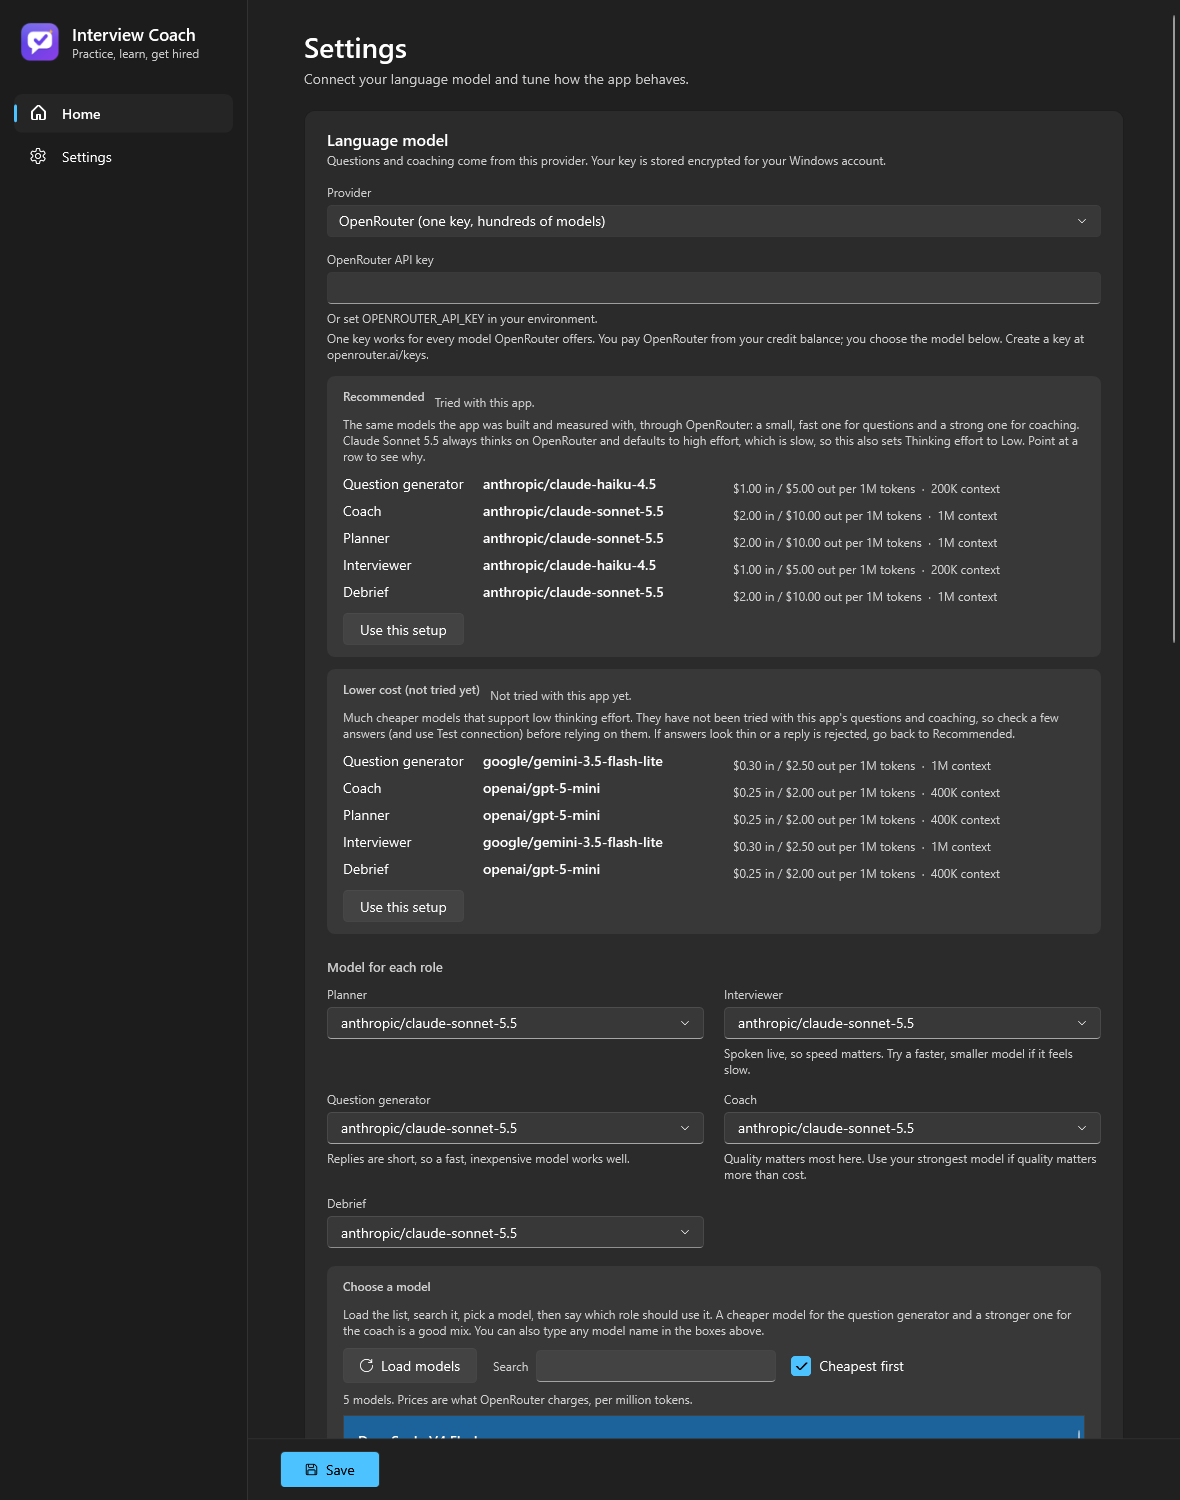
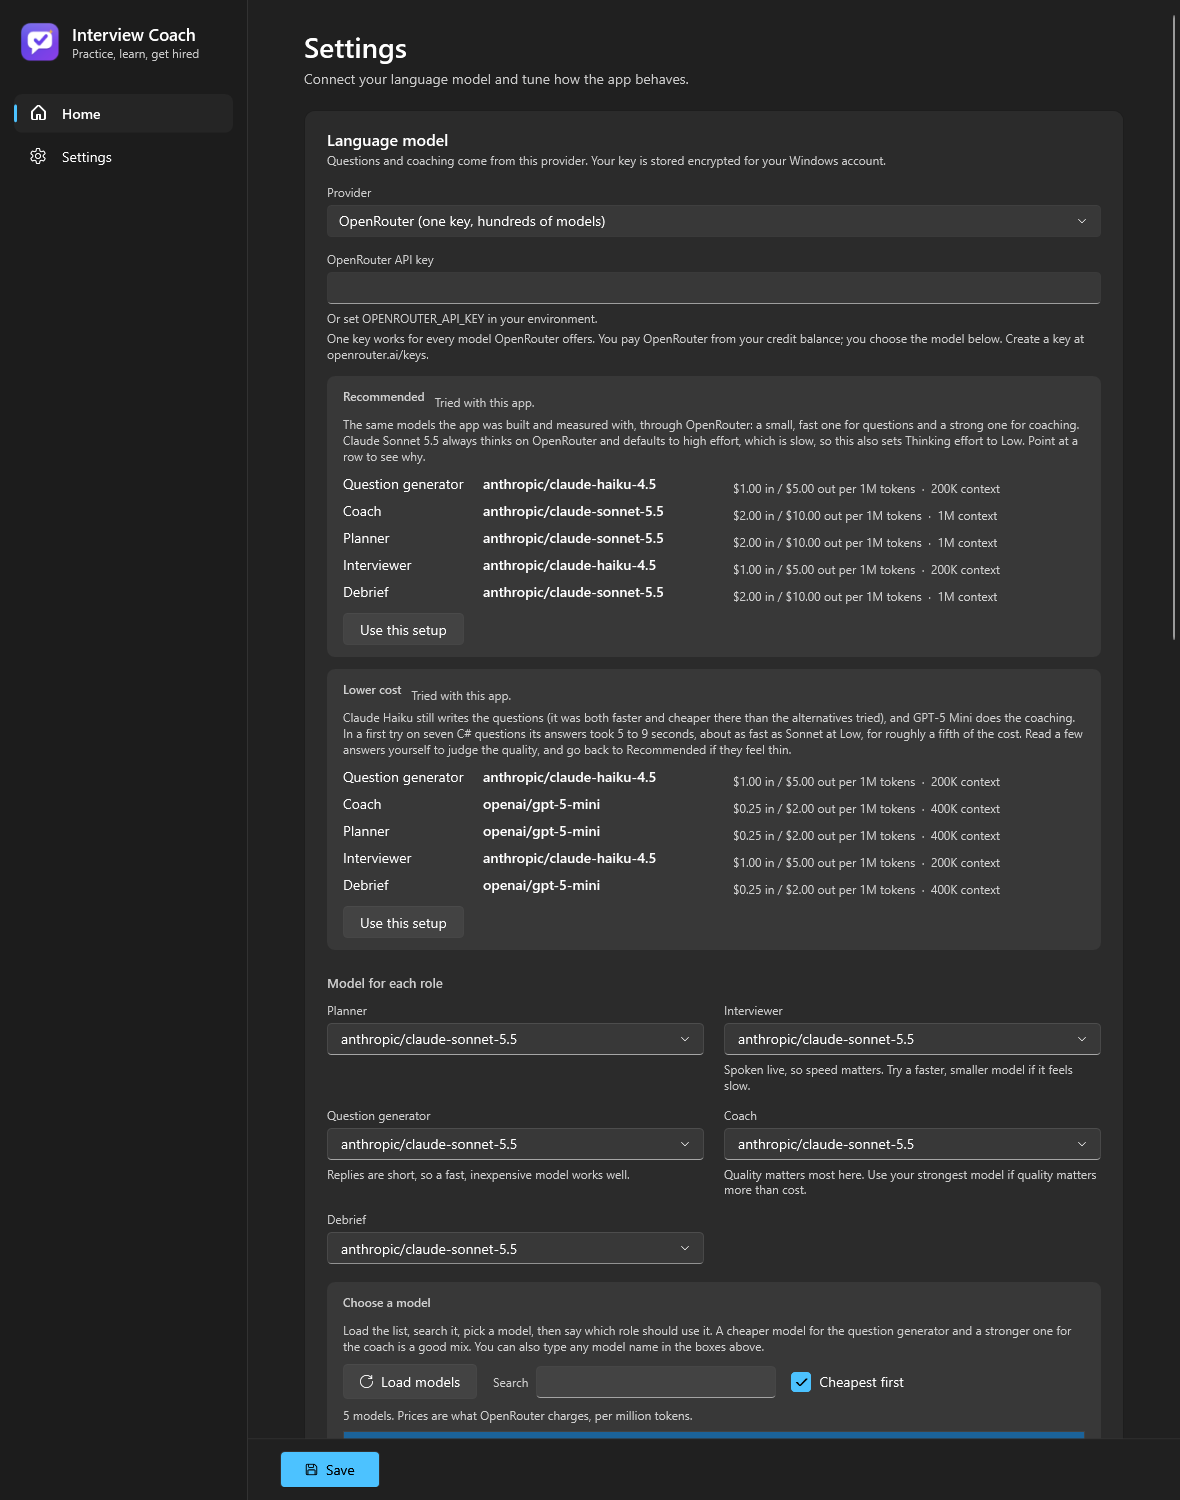
app: lower-cost setup keeps Haiku for questions
The first lower-cost setup used Gemini 3.5 Flash Lite for questions, chosen only from OpenRouter's price list. The real log showed it was slower and dearer than Haiku there, so it now uses Haiku for the question generator and interviewer and GPT-5 Mini for the coach, planner and debrief.

GPT-5 Mini was tried on seven C# questions: 5.4 to 8.5 seconds per answer (Sonnet at Low: 5.7 to 8.2), 102 to 117 words against a 60 to 150 target, three follow-ups each, for about a fifth of Sonnet's cost per answer (output tokens 724 on average at 2 dollars per million, against about 690 at 10). The setup is no longer labelled untried; the card says what was measured and tells the user to read answers to judge quality. The OpenRouter suggestion list swaps Gemini for GPT-5 Mini. Screenshots regenerated.

diff --git a/src/InterviewCoach.Core/Models/ModelRecommendations.cs b/src/InterviewCoach.Core/Models/ModelRecommendations.cs
@@ -39,10 +39,13 @@ public static class ModelRecommendations
         "The same models the app was built and measured with, through OpenRouter: a small, fast one for questions and a strong one for coaching. Claude Sonnet 5.5 always thinks on OpenRouter and defaults to high effort, which is slow, so this also sets Thinking effort to Low. Point at a row to see why.",
         tested: true, strong: "anthropic/claude-sonnet-5.5", fast: "anthropic/claude-haiku-4.5");
 
+    // Tried on 2 October 2026 (debug log, 7 C# questions): GPT-5 Mini coached in 5 to 9 seconds, about as fast as Sonnet at Low,
+    // for roughly a fifth of the cost. Gemini 3.5 Flash Lite as the question writer was NOT kept: it spent about 500 of 550 output
+    // tokens thinking and took 2.3 to 3.0 seconds against Haiku's 1.0 to 1.5, so it cost more per question as well.
     private static readonly RecommendedSetup OpenRouterCheaper = Setup(
-        "Lower cost (not tried yet)",
-        "Much cheaper models that support low thinking effort. They have not been tried with this app's questions and coaching, so check a few answers (and use Test connection) before relying on them. If answers look thin or a reply is rejected, go back to Recommended.",
-        tested: false, strong: "openai/gpt-5-mini", fast: "google/gemini-3.5-flash-lite");
+        "Lower cost",
+        "Claude Haiku still writes the questions (it was both faster and cheaper there than the alternatives tried), and GPT-5 Mini does the coaching. In a first try on seven C# questions its answers took 5 to 9 seconds, about as fast as Sonnet at Low, for roughly a fifth of the cost. Read a few answers yourself to judge the quality, and go back to Recommended if they feel thin.",
+        tested: true, strong: "openai/gpt-5-mini", fast: "anthropic/claude-haiku-4.5");
 
     /// <summary>Setups worth offering for a provider. Empty when model names cannot be known in advance (OpenAI-compatible servers).</summary>
     public static IReadOnlyList<RecommendedSetup> For(LlmProvider provider) => provider switch

diff --git a/tests/InterviewCoach.Core.Tests/ModelRecommendationsTests.cs b/tests/InterviewCoach.Core.Tests/ModelRecommendationsTests.cs
@@ -39,10 +39,22 @@ public class ModelRecommendationsTests
     [Fact]
     public void Anything_not_tried_with_the_app_is_labelled_as_such()
     {
-        var cheaper = ModelRecommendations.For(LlmProvider.OpenRouter).Where(s => !s.Tested).ToList();
+        foreach (var setup in ModelRecommendations.For(LlmProvider.OpenRouter).Where(s => !s.Tested))
+            Assert.Contains("not tried", setup.Title + setup.Summary, StringComparison.OrdinalIgnoreCase);
+    }
 
-        Assert.NotEmpty(cheaper);
-        Assert.All(cheaper, s => Assert.Contains("not tried", s.Title + s.Summary, StringComparison.OrdinalIgnoreCase));
+    [Fact]
+    public void The_lower_cost_setup_keeps_Haiku_for_questions_and_uses_GPT_5_Mini_for_coaching()
+    {
+        // From the debug log: Gemini 3.5 Flash Lite as question writer spent about 500 of 550 output tokens thinking and
+        // took 2.3 to 3.0 s against Haiku's 1.0 to 1.5 s, so it was slower and dearer there. GPT-5 Mini coached well.
+        var cheaper = ModelRecommendations.For(LlmProvider.OpenRouter)[1];
+        string Of(LlmRole r) => cheaper.Models.Single(m => m.Role == r).ModelId;
+
+        Assert.Equal("anthropic/claude-haiku-4.5", Of(LlmRole.QuestionGenerator));
+        Assert.Equal("anthropic/claude-haiku-4.5", Of(LlmRole.Interviewer));
+        Assert.Equal("openai/gpt-5-mini", Of(LlmRole.Coach));
+        Assert.DoesNotContain(cheaper.Models, m => m.ModelId.Contains("gemini"));
     }
 
     [Fact]

diff --git a/tests/InterviewCoach.App.Tests/OpenRouterSettingsUiTests.cs b/tests/InterviewCoach.App.Tests/OpenRouterSettingsUiTests.cs
@@ -290,7 +290,7 @@ public class OpenRouterSettingsUiTests
         vm.Provider = LlmProvider.OpenRouter;
         Assert.Equal(2, vm.SetupCards.Count);
         Assert.StartsWith("Recommended", vm.SetupCards[0].Title);
-        Assert.Contains("Not tried", vm.SetupCards[1].TestedNote);
+        Assert.Equal("Lower cost", vm.SetupCards[1].Title);
         Assert.Contains("Tried with this app", vm.SetupCards[0].TestedNote);
 
         vm.Provider = LlmProvider.OpenAiCompatible;
@@ -340,7 +340,7 @@ public class OpenRouterSettingsUiTests
         vm.SetupCards[1].ApplyCommand.Execute(null);
 
         Assert.Equal("openai/gpt-5-mini", vm.CoachModel);
-        Assert.Equal("google/gemini-3.5-flash-lite", vm.QuestionGeneratorModel);
+        Assert.Equal("anthropic/claude-haiku-4.5", vm.QuestionGeneratorModel);
         vm.SaveCommand.Execute(null);
         Assert.Equal("openai/gpt-5-mini", store.Current.ModelFor(LlmProvider.OpenRouter, LlmRole.Coach));
         Assert.Equal("claude-opus-5-5", store.Current.ModelFor(LlmProvider.Anthropic, LlmRole.Coach));

diff --git a/src/InterviewCoach.App/ViewModels/SettingsViewModel.cs b/src/InterviewCoach.App/ViewModels/SettingsViewModel.cs
@@ -79,7 +79,7 @@ public partial class SettingsViewModel : ObservableObject
 
     // A few well-known OpenRouter models to start from. The full list, with prices, is in "Choose a model" below.
     private static readonly string[] OpenRouterSuggestions =
-        ["anthropic/claude-sonnet-5.5", "anthropic/claude-haiku-4.5", "google/gemini-3.5-flash-lite", "deepseek/deepseek-v4-flash"];
+        ["anthropic/claude-sonnet-5.5", "anthropic/claude-haiku-4.5", "openai/gpt-5-mini", "deepseek/deepseek-v4-flash"];
 
     public IReadOnlyList<string> ModelSuggestions => IsOpenRouter ? OpenRouterSuggestions : AnthropicSuggestions;
 
